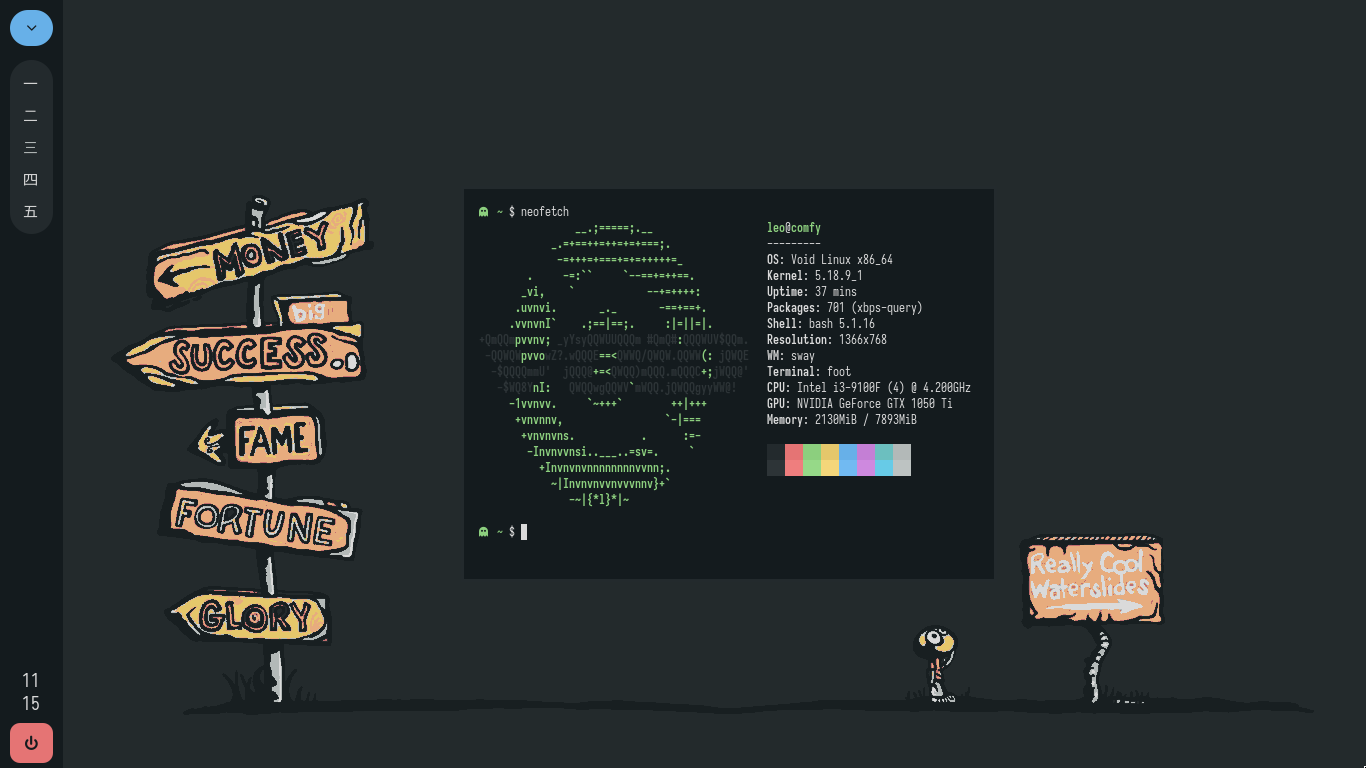
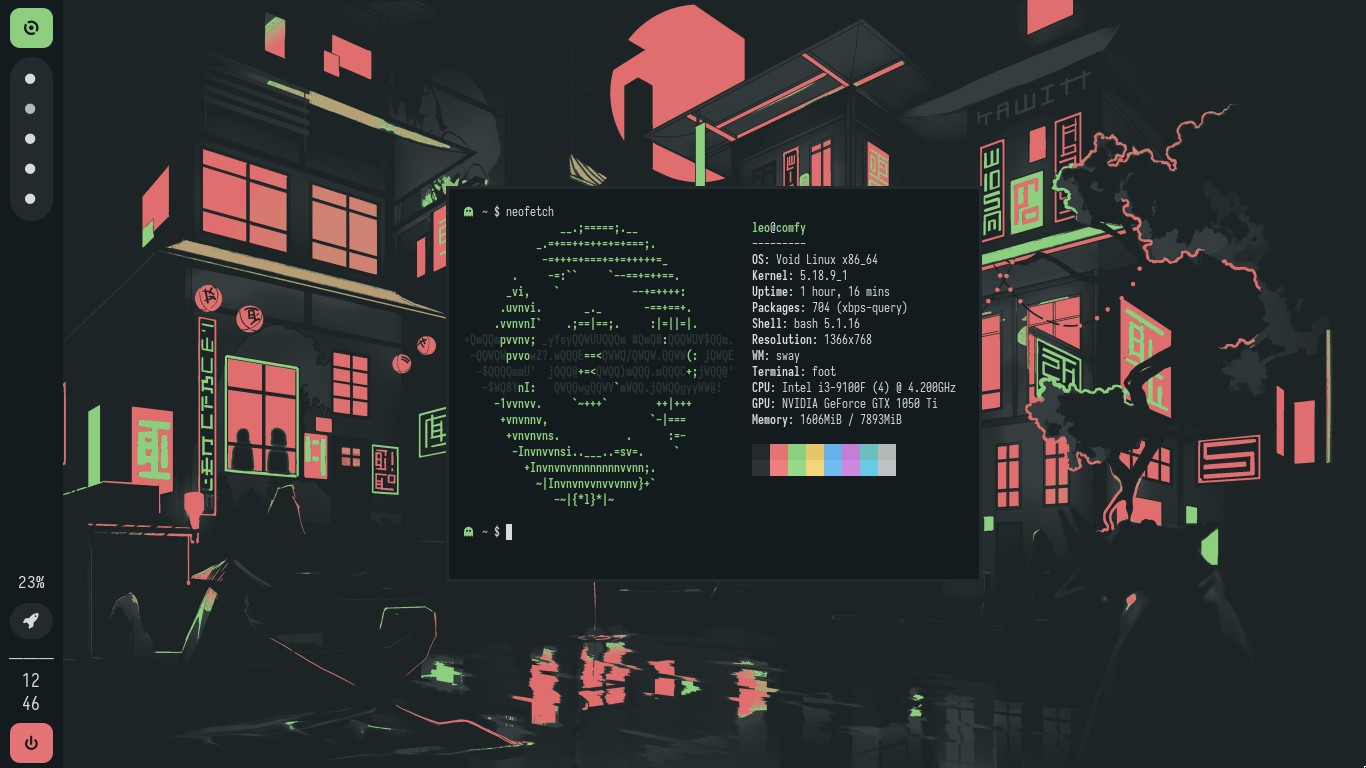
feat: new bar

diff --git a/conf/waybar/style.css b/conf/waybar/style.css
@@ -14,10 +14,8 @@ margin: 10px;
 }
 
 #workspaces button {
-	font-family: Iosevka Nerd Font;
   color: #dadada;
-  padding: 3px 7px;
-  font-size: 15px;
+   padding: 2px 7px;
 }
 
 #workspaces button:hover {
@@ -35,7 +33,7 @@ margin: 10px;
     border-radius: 10px;
     padding: 10px 0px;
     margin: 0px 10px;
-    margin-bottom: 5px
+    margin-bottom: 5px;
 }
 
 #clock {
@@ -44,11 +42,31 @@ margin: 10px;
     margin-bottom: 8px;
 }
 
-#custom-ghost {
+#custom-void {
+    color: #141b1e;
+    background-color: #8ccf7e;
+    font-size: 15px;
+    border-radius: 10px;
+    padding: 10 0px;
+    margin: 0 10px;
+    margin-bottom: 5px;
+    margin-top: 8px;
+}
+
+#custom-separator {
+    color: #dadada; 
+}
+
+#memory {
+    color: #dadada;
+    font-size: 17px;
+}
+
+#custom-wofi {
     border-radius: 50px;
     margin: 10px;
     font-size:17px;
     padding: 7px;
-    background-color: #67b0e8;
-    color: #141b1e;
+    background-color: #232a2d;
+    color: #dadada;
 }

diff --git a/.github/README.md b/.github/README.md
@@ -68,6 +68,8 @@ so, finally! how run sway? try to just run in your tty `sway`, or `WLR_NO_HARDWA
 
 ## thanks
 
+[siduck](https://github.com/siduck)
+
 [AlphaTechnolog](https://github.com/alphatechnolog) 
 
 ## license
